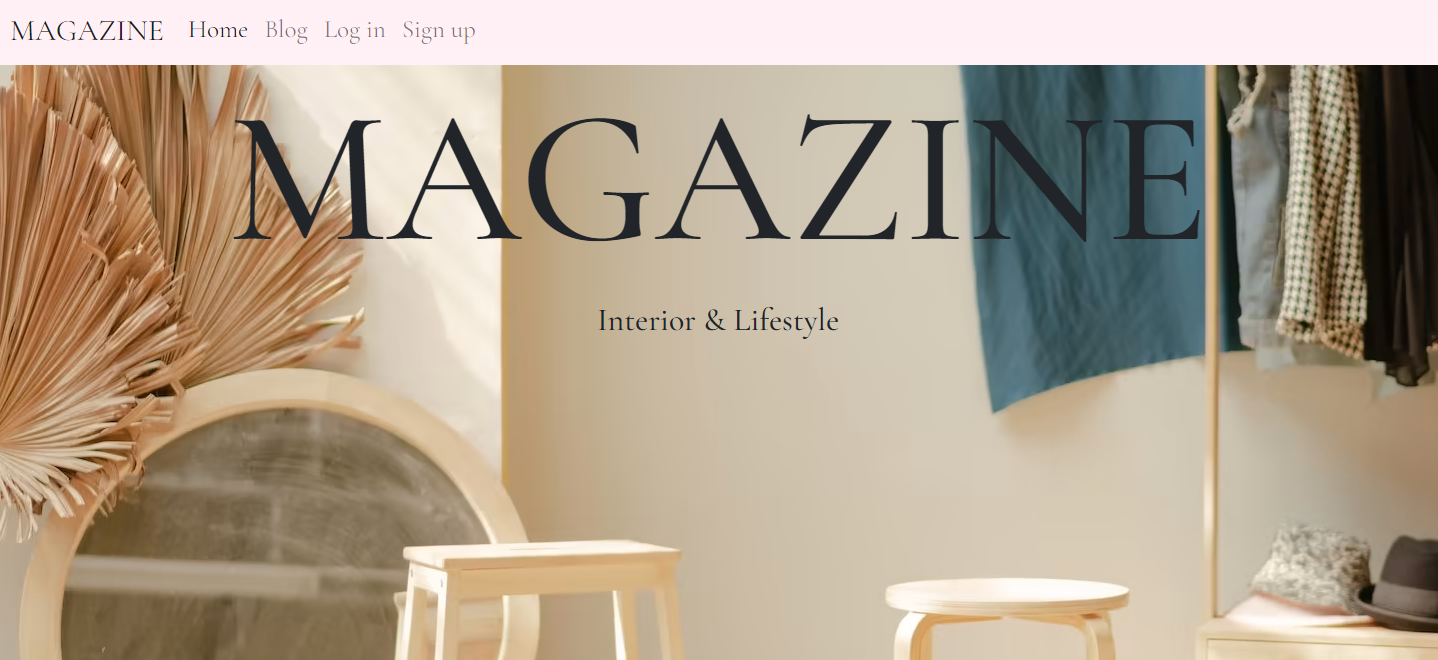
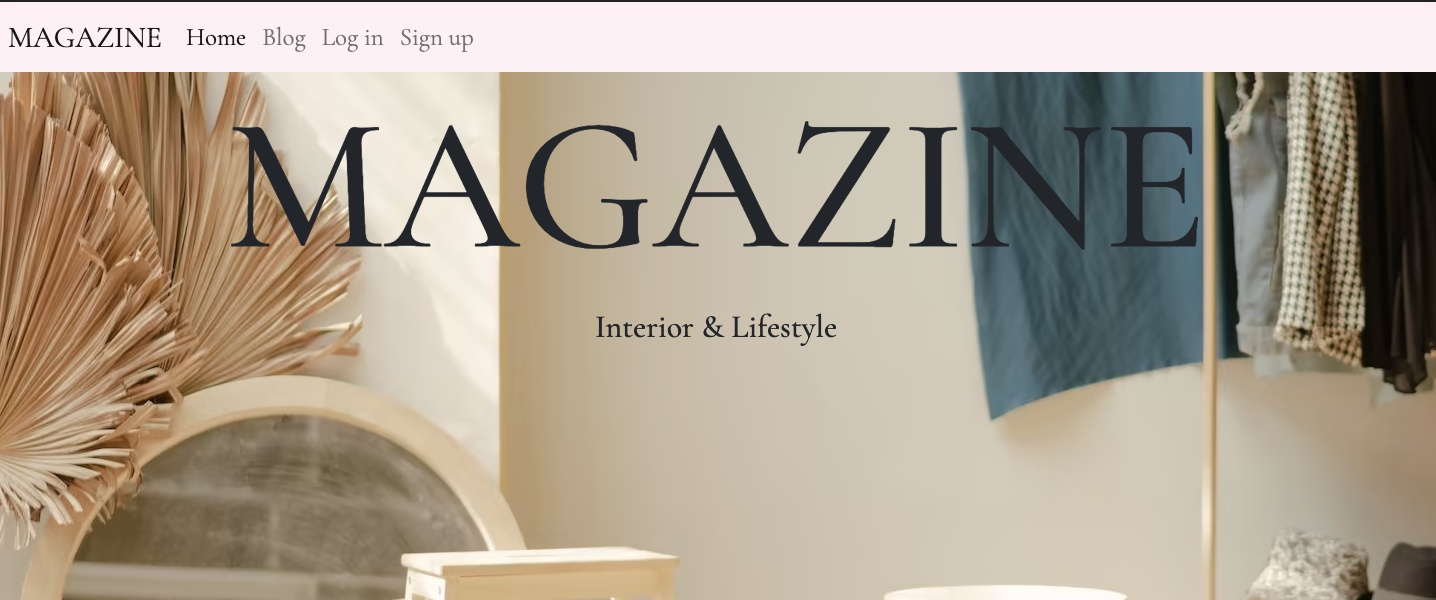
Add skills

diff --git a/index.html b/index.html
@@ -43,6 +43,25 @@
         <h2>I'am a Full stack software developer based in Stockholm, Sweden.</h2>
 
     </div>
+    <div class="skills-sections section container">
+      <div class="skills-container">
+        <div class="skill">
+          <img src="assets/images/html.png" alt="">
+        </div>
+        <div class="skill">
+          <img src="assets/images/css.png" alt="">
+        </div>
+        <div class="skill">
+          <img src="assets/images/javascript.png" alt="">
+        </div>
+        <div class="skill">
+          <img src="assets/images/py.png" alt="">
+        </div>
+        <div class="skill">
+          <img src="assets/images/react.png" alt="">
+        </div>
+      </div>
+    </div>
     <div id="projects" class="projects-section section container">
       <h2>Portfolio</h2>
       <div class="container text-center">
@@ -55,7 +74,7 @@
         <div class="row">
           <div class="col project"><img src="assets/images/python.png" class="img-thumbnail" alt="..."></div>
           <div class="col project"><img src="assets/images/quiz.png" class="img-thumbnail" alt="..."></div>
-          <div class="col project"><img src="assets/images/milestone-one.png" class="img-thumbnail" alt="..."></div>
+          <div class="col project"><img src="assets/images/milestone.png" class="img-thumbnail" alt="..."></div>
         </div>
       </div>
     </div>

diff --git a/assets/style.css b/assets/style.css
@@ -1,8 +1,14 @@
+@import url('https://fonts.googleapis.com/css2?family=Libre+Baskerville:wght@400;700&display=swap');
+
+
 * {
   margin: 0;
   padding: 0;
   box-sizing: border-box;
+  font-family: 'Libre Baskerville', serif;
 }
+
+body
 
 h1 {
   background-image: url("images/flowers.jpg");
@@ -14,6 +20,7 @@ h1 {
   -moz-text-fill-color: transparent;
   filter: drop-shadow(2px 2px #0085a3);
   font-size: 100px;
+  font-family: 'Libre Baskerville', serif;
 }
 
 header {
@@ -28,7 +35,7 @@ header {
 
 .button {
 }
-
+ 
 /* navbar */
 .navbar {
 }
@@ -64,7 +71,7 @@ header {
 .nav-link.active,
 a:hover,
 .active {
-  color: blueviolet !important;
+  color: rgb(205, 206, 255) !important;
   font-size: 20px;
 }
 
@@ -75,9 +82,14 @@ a:hover,
 .footer-links {
 }
 
+/* skills */
+.skills-container{
+  display: flex;
+}
 /* projects */
 
 .project {
 
 }
 
+/* #CFB3FF  rgba(169, 192, 255, 1) */

diff --git a/Readme.md b/Readme.md
@@ -3,3 +3,22 @@ npm install @mui/material @emotion/react @emotion/styled
 
 image
 Bild av NEOSiAM  2021: https://www.pexels.com/sv-se/foto/blommor-oskarpa-farger-ljus-595102/
+
+html
+<div> Icons made by <a href="https://www.flaticon.com/authors/iconixar" title="iconixar"> iconixar </a> from <a href="https://www.flaticon.com/" title="Flaticon">www.flaticon.com'</a></div>
+
+css
+<a href="https://www.flaticon.com/free-icons/css" title="css icons">Css icons created by Smashicons - Flaticon</a>
+
+js
+<a href="https://www.flaticon.com/free-icons/javascript" title="javascript icons">Javascript icons created by Smashicons - Flaticon</a>
+python
+<a href="https://www.flaticon.com/free-icons/python" title="python icons">Python icons created by Nadiinko - Flaticon</a>
+react
+<a href="https://www.flaticon.com/free-icons/react" title="react icons">React icons created by VectorPortal - Flaticon</a>
+
+
+lila
+#D1CCFF
+blå
+#88B1FF
